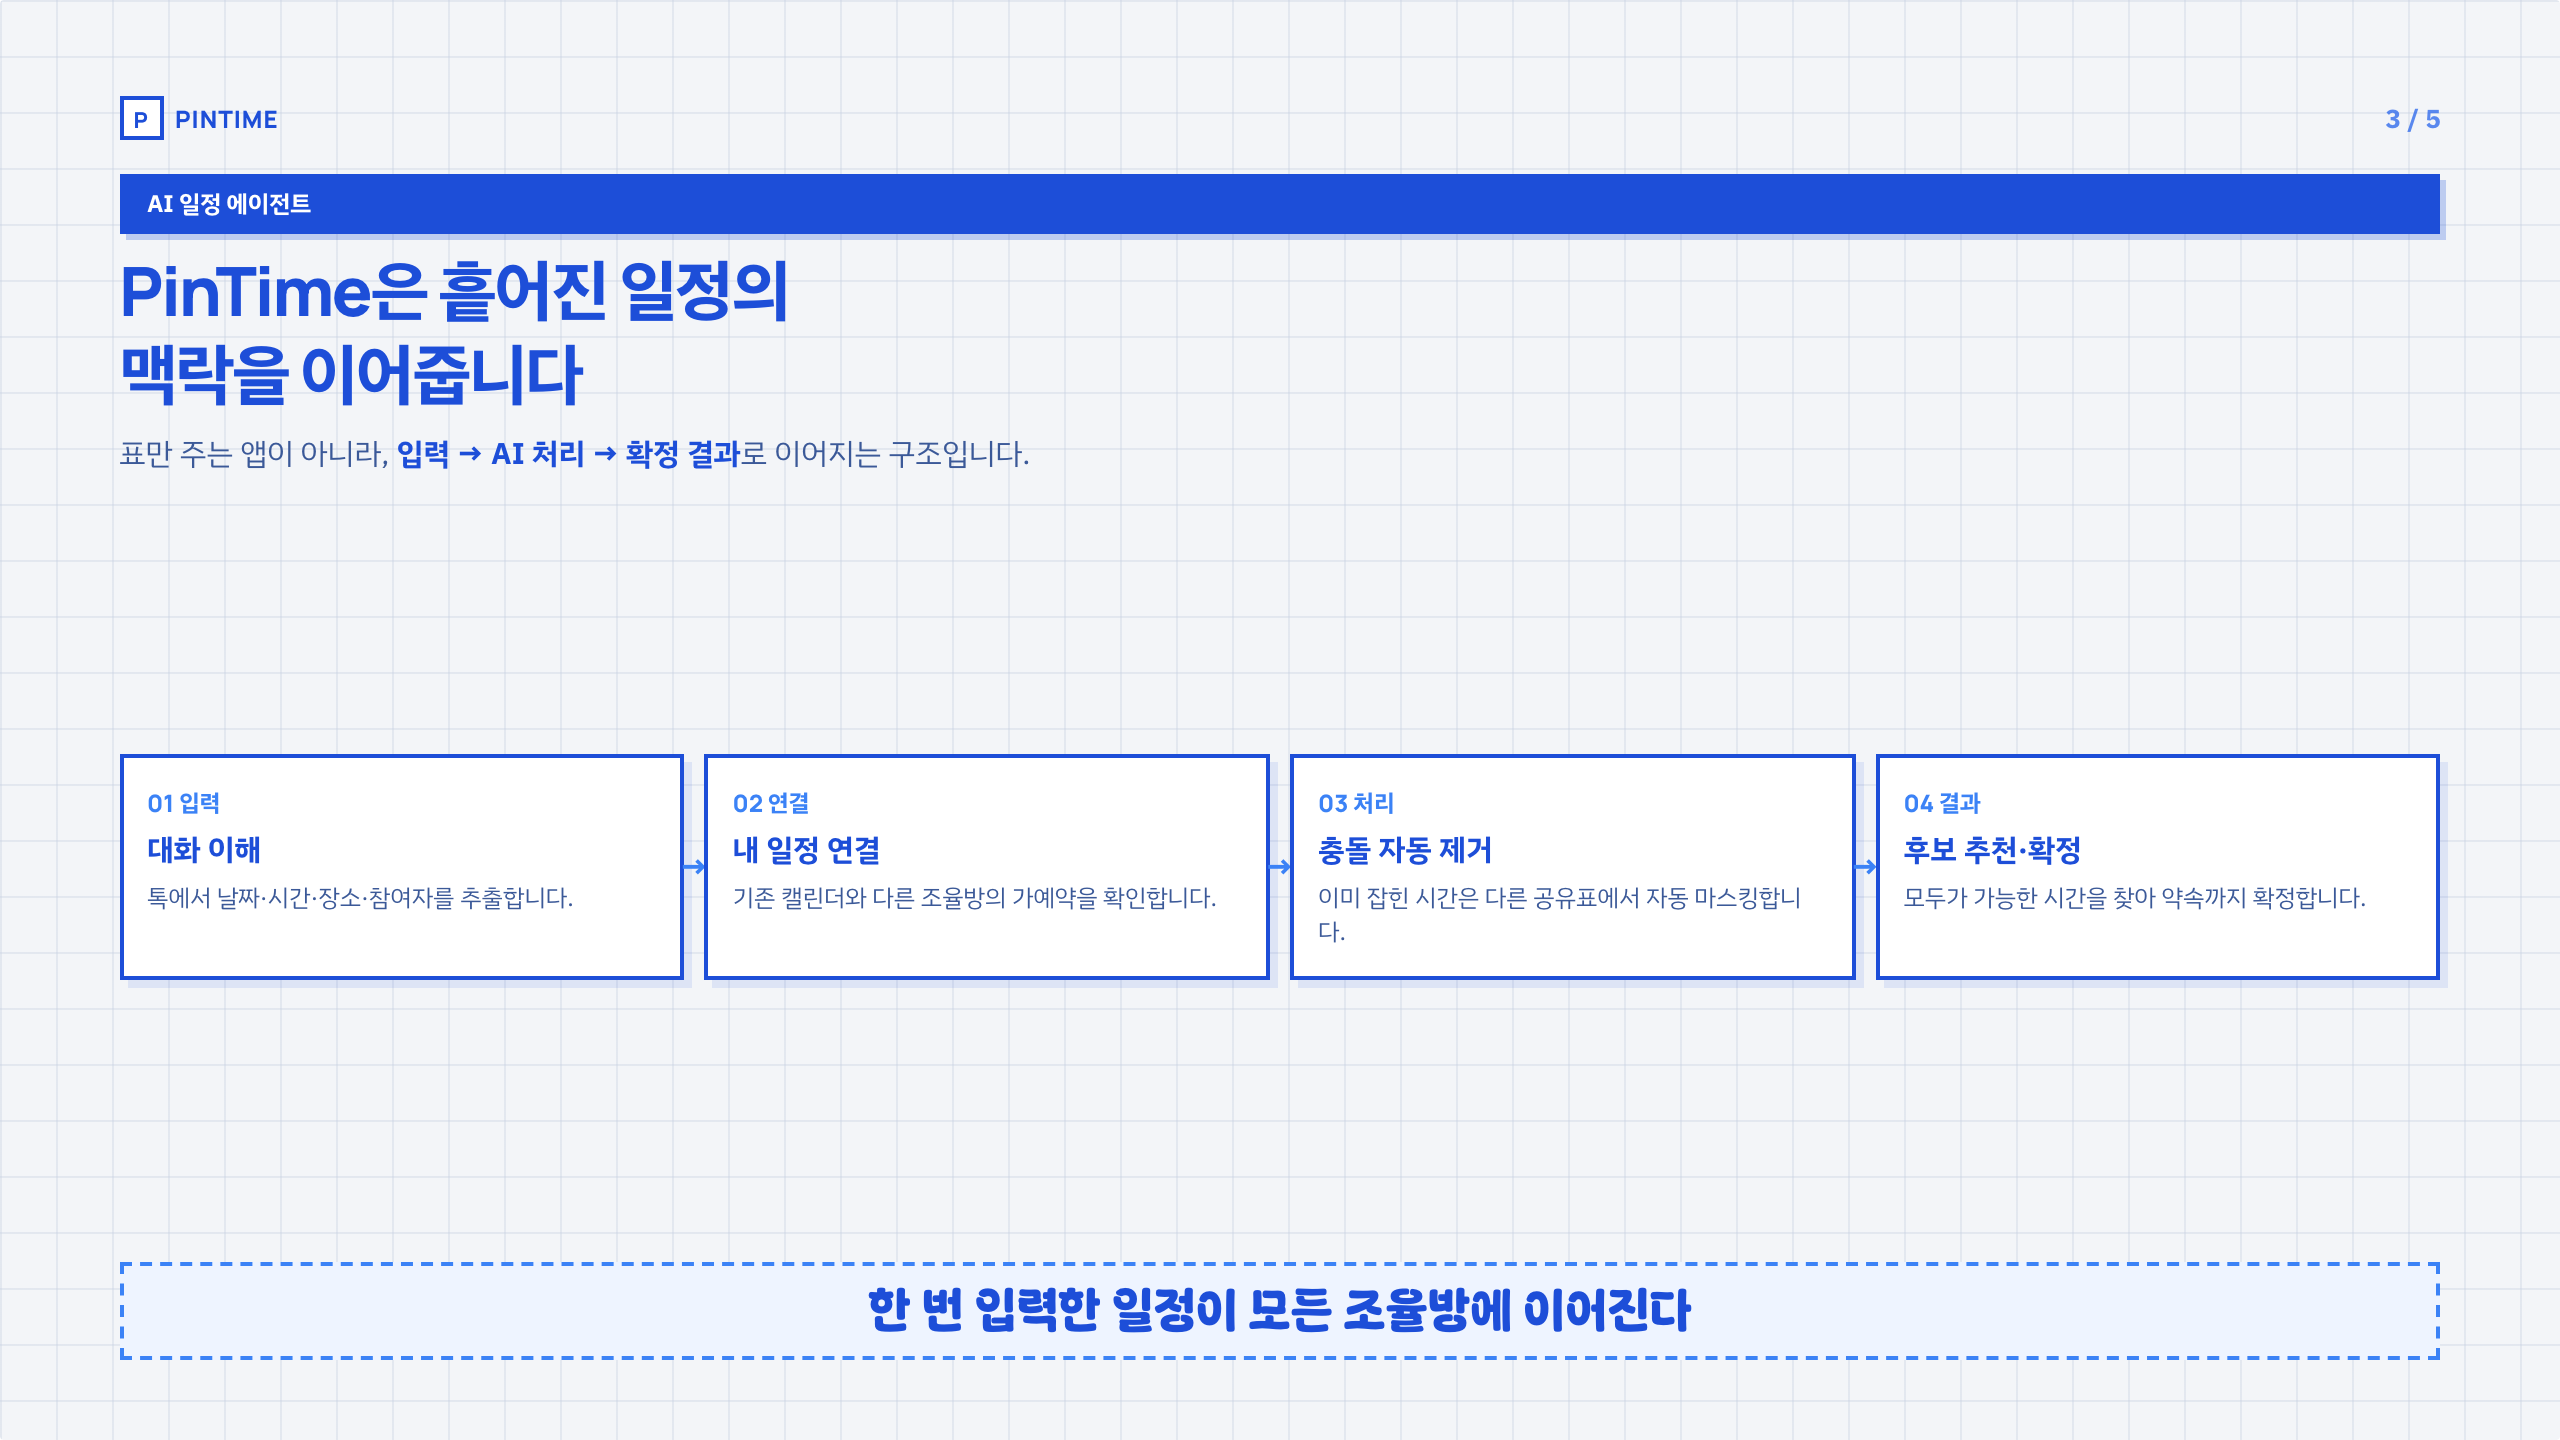
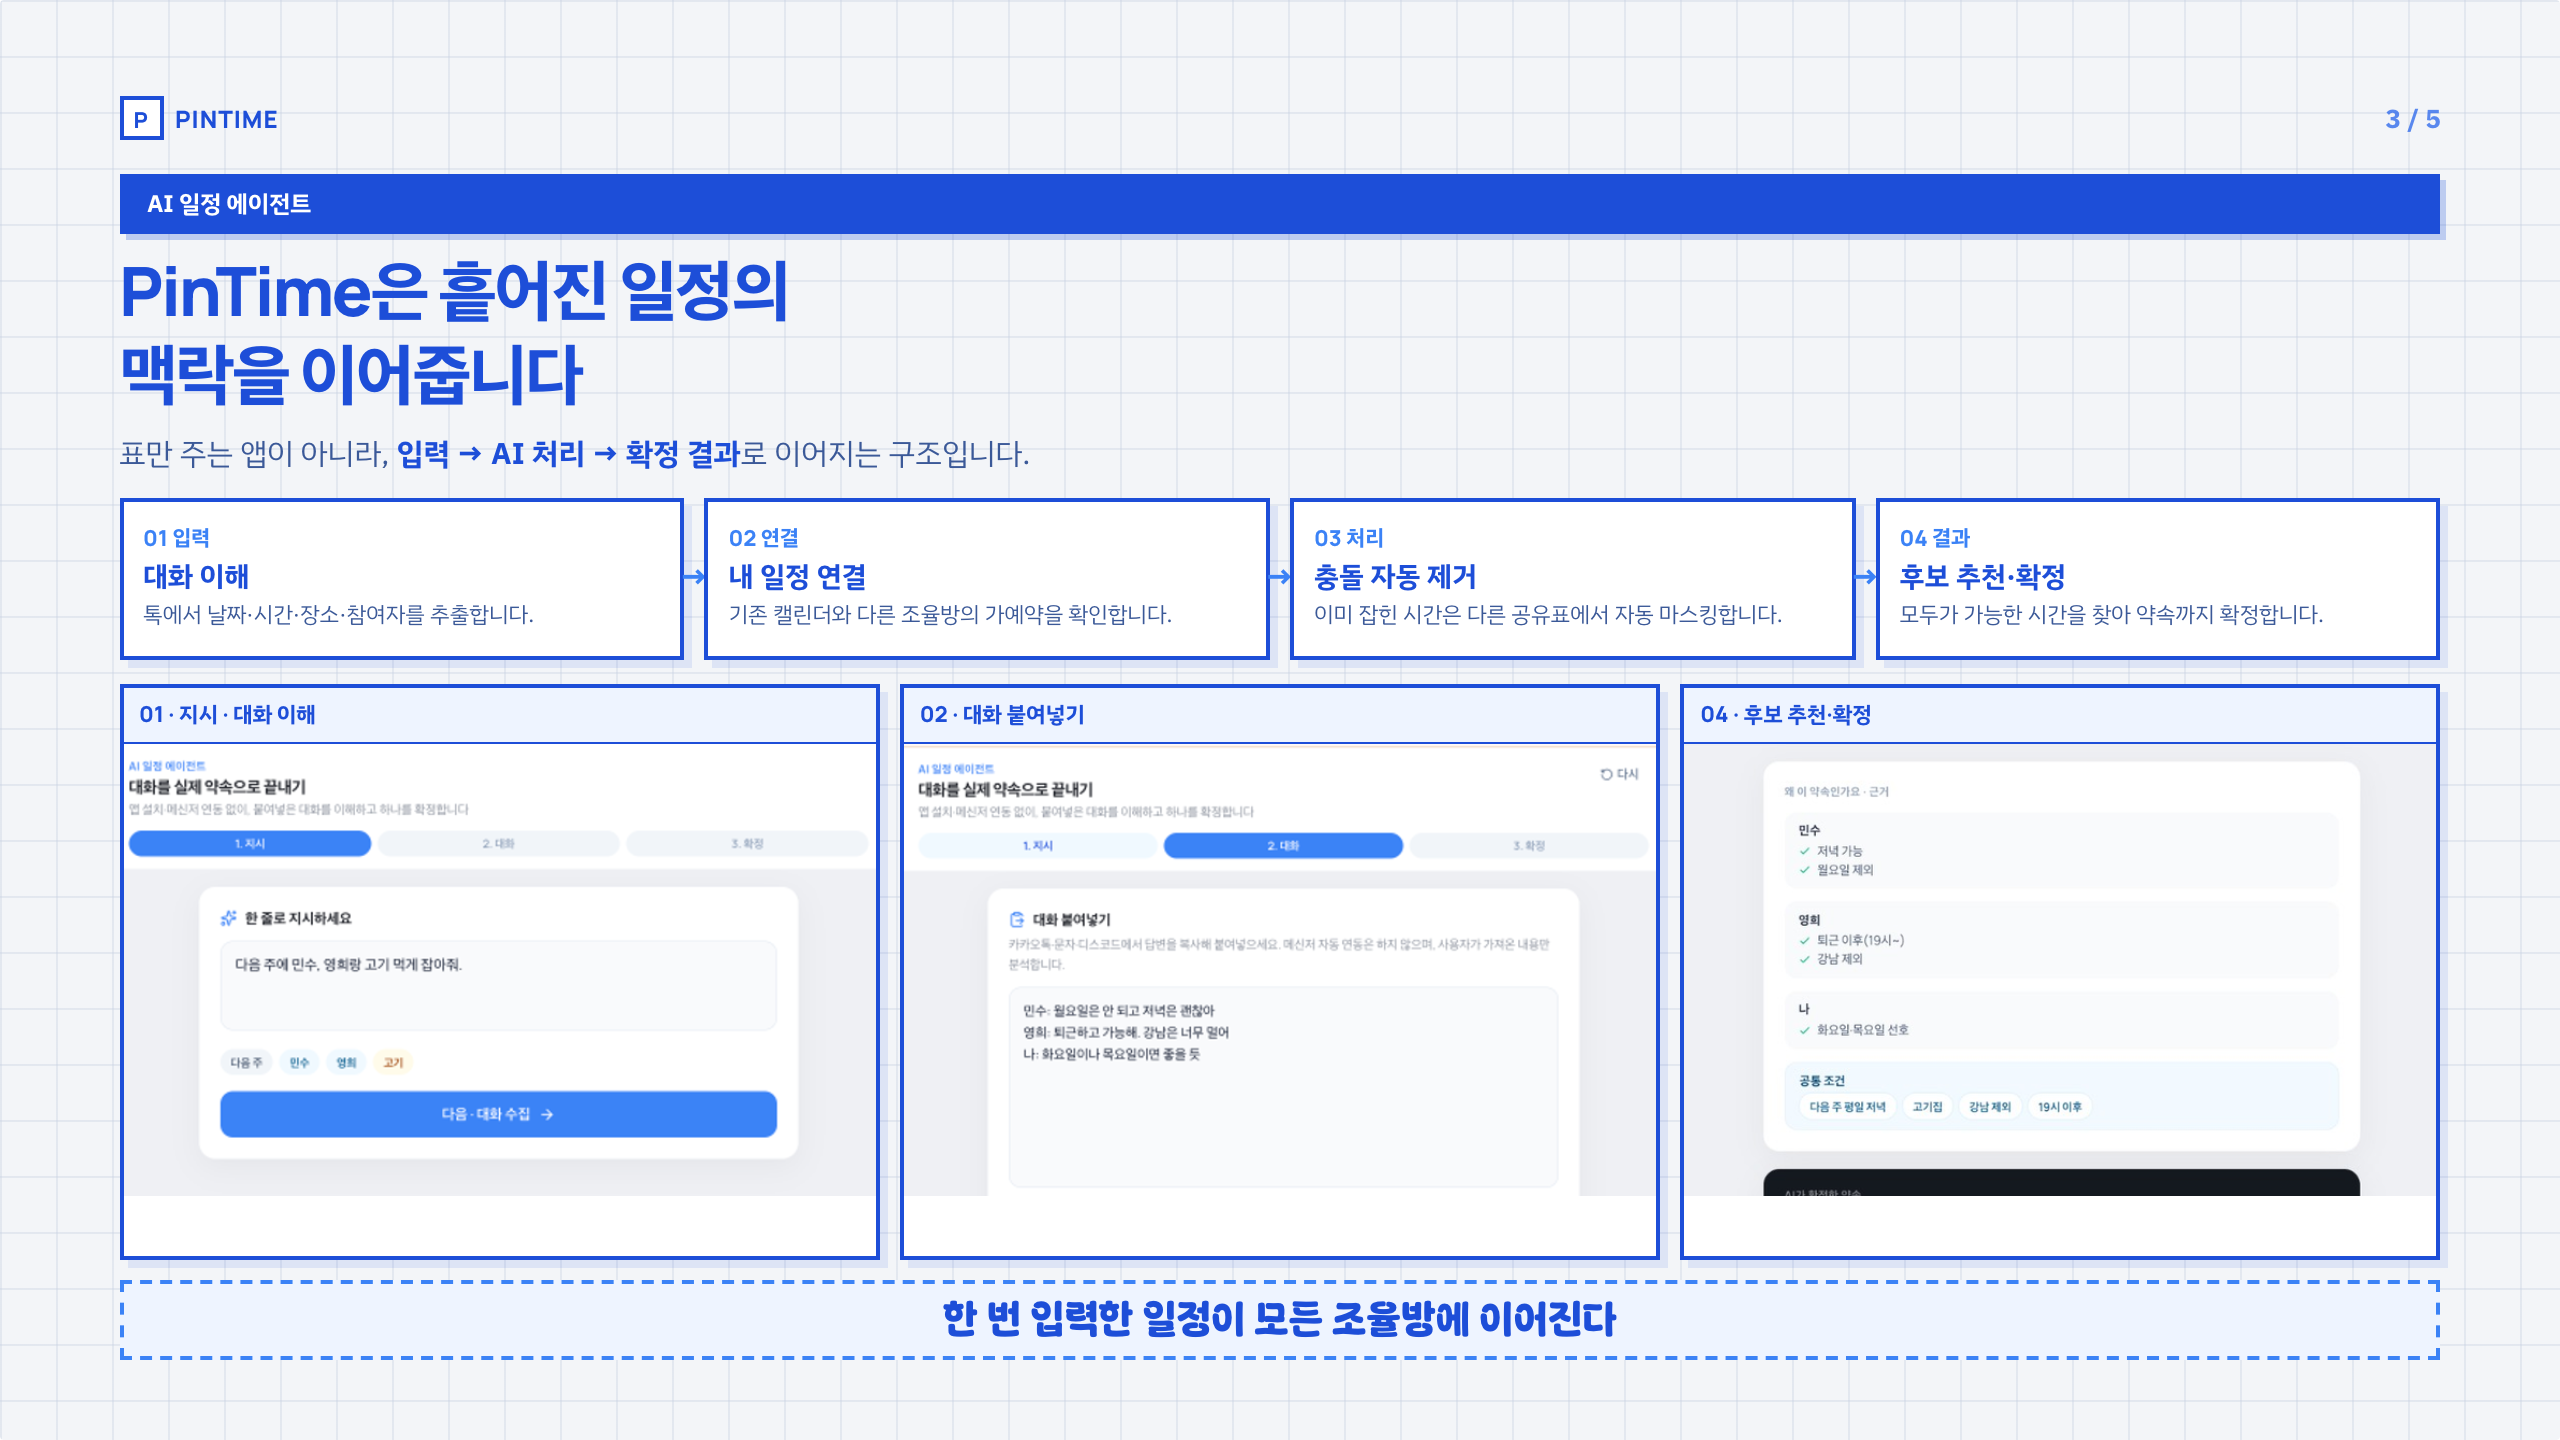
Add agent UI screenshots under AI pipeline cards on pitch slide 3.

diff --git a/public/pitch.html b/public/pitch.html
@@ -411,18 +411,17 @@
         display: grid;
         grid-template-columns: repeat(4, 1fr);
         gap: 10px;
-        margin-top: 14px;
-        flex: 1;
-        align-content: center;
+        margin-top: 10px;
+        flex-shrink: 0;
       }
       .ai-step {
         background: #fff;
         border: 2px solid var(--blue);
-        padding: 14px 12px;
+        padding: 10px 10px 12px;
         box-shadow: 4px 4px 0 rgba(29, 78, 216, 0.1);
         display: flex;
         flex-direction: column;
-        gap: 6px;
+        gap: 4px;
         position: relative;
       }
       .ai-step::after {
@@ -439,29 +438,64 @@
       .ai-step .n {
         font-family: Manrope, sans-serif;
         font-weight: 800;
-        font-size: 12px;
+        font-size: 11px;
         color: var(--blue-soft);
       }
       .ai-step h3 {
         margin: 0;
-        font-size: 15px;
+        font-size: 14px;
         line-height: 1.25;
       }
       .ai-step p {
         margin: 0;
-        font-size: 12px;
-        line-height: 1.4;
+        font-size: 11px;
+        line-height: 1.35;
         color: var(--muted-solid);
       }
+      .ai-shots {
+        display: grid;
+        grid-template-columns: repeat(3, 1fr);
+        gap: 10px;
+        margin-top: 12px;
+        flex: 1;
+        min-height: 0;
+      }
+      .ai-shot {
+        background: #fff;
+        border: 2px solid var(--blue);
+        box-shadow: 4px 4px 0 rgba(29, 78, 216, 0.1);
+        overflow: hidden;
+        display: flex;
+        flex-direction: column;
+        min-height: 0;
+      }
+      .ai-shot .lab {
+        padding: 5px 8px;
+        background: #eef4ff;
+        border-bottom: 1.5px solid var(--blue);
+        font-size: 11px;
+        font-weight: 800;
+        color: var(--blue);
+        font-family: Manrope, 'IBM Plex Sans KR', sans-serif;
+      }
+      .ai-shot img {
+        width: 100%;
+        height: 2.35in;
+        object-fit: cover;
+        object-position: top center;
+        display: block;
+        background: #f8fafc;
+      }
       .ai-centerline {
-        margin: 16px 0 0;
+        margin: 10px 0 0;
         text-align: center;
         font-family: 'Gumi Romance', 'IBM Plex Sans KR', sans-serif;
-        font-size: 22px;
+        font-size: 18px;
         color: var(--blue);
-        padding: 10px 16px;
+        padding: 8px 14px;
         background: #eef4ff;
         border: 2px dashed var(--blue-soft);
+        flex-shrink: 0;
       }
 
       .proto-row {
@@ -2022,6 +2056,30 @@
               <span class="n">04 결과</span>
               <h3>후보 추천·확정</h3>
               <p>모두가 가능한 시간을 찾아 약속까지 확정합니다.</p>
+            </div>
+          </div>
+
+          <div class="ai-shots">
+            <div class="ai-shot">
+              <div class="lab">01 · 지시 · 대화 이해</div>
+              <img
+                src="/pitch-shots/ai-01-instruct.png"
+                alt="한 줄 지시로 날짜·참여자를 추출하는 화면"
+              />
+            </div>
+            <div class="ai-shot">
+              <div class="lab">02 · 대화 붙여넣기</div>
+              <img
+                src="/pitch-shots/ai-02-chat.png"
+                alt="톡 대화를 붙여넣어 AI가 이해하는 화면"
+              />
+            </div>
+            <div class="ai-shot">
+              <div class="lab">04 · 후보 추천·확정</div>
+              <img
+                src="/pitch-shots/ai-03-confirm.png"
+                alt="AI가 확정한 약속과 근거를 보여주는 화면"
+              />
             </div>
           </div>
 

diff --git a/README.md b/README.md
@@ -20,7 +20,7 @@ HTML 소개서: [`public/pitch.html`](./public/pitch.html)
 
 ### 3. AI 일정 에이전트 구조
 
-대화 이해 → 내 일정 연결 → 충돌 자동 제거 → 후보 추천·확정. 한 번 입력한 일정이 모든 조율방에 이어지는 파이프라인입니다.
+입력(대화 이해) → 연결 → 충돌 제거 → 추천·확정. 아래에 실제 에이전트 화면(지시 → 대화 붙여넣기 → 확정)을 함께 보여 줍니다.
 
 ![3. PinTime AI 파이프라인](./public/pitch-export/03-concept.png)
 
